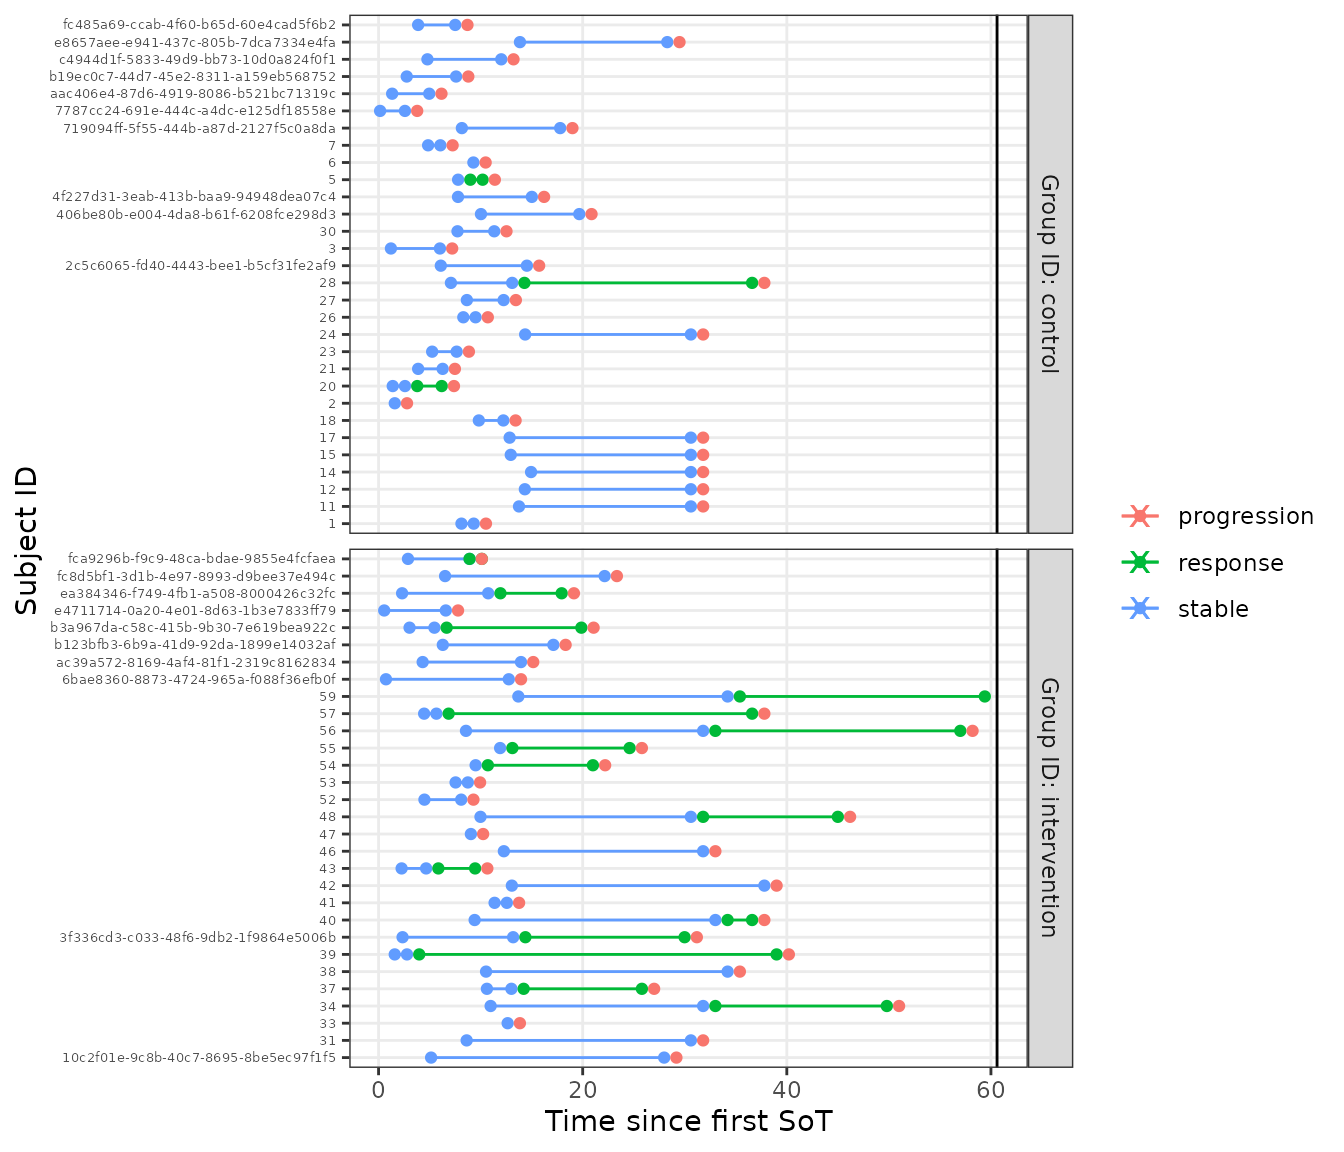
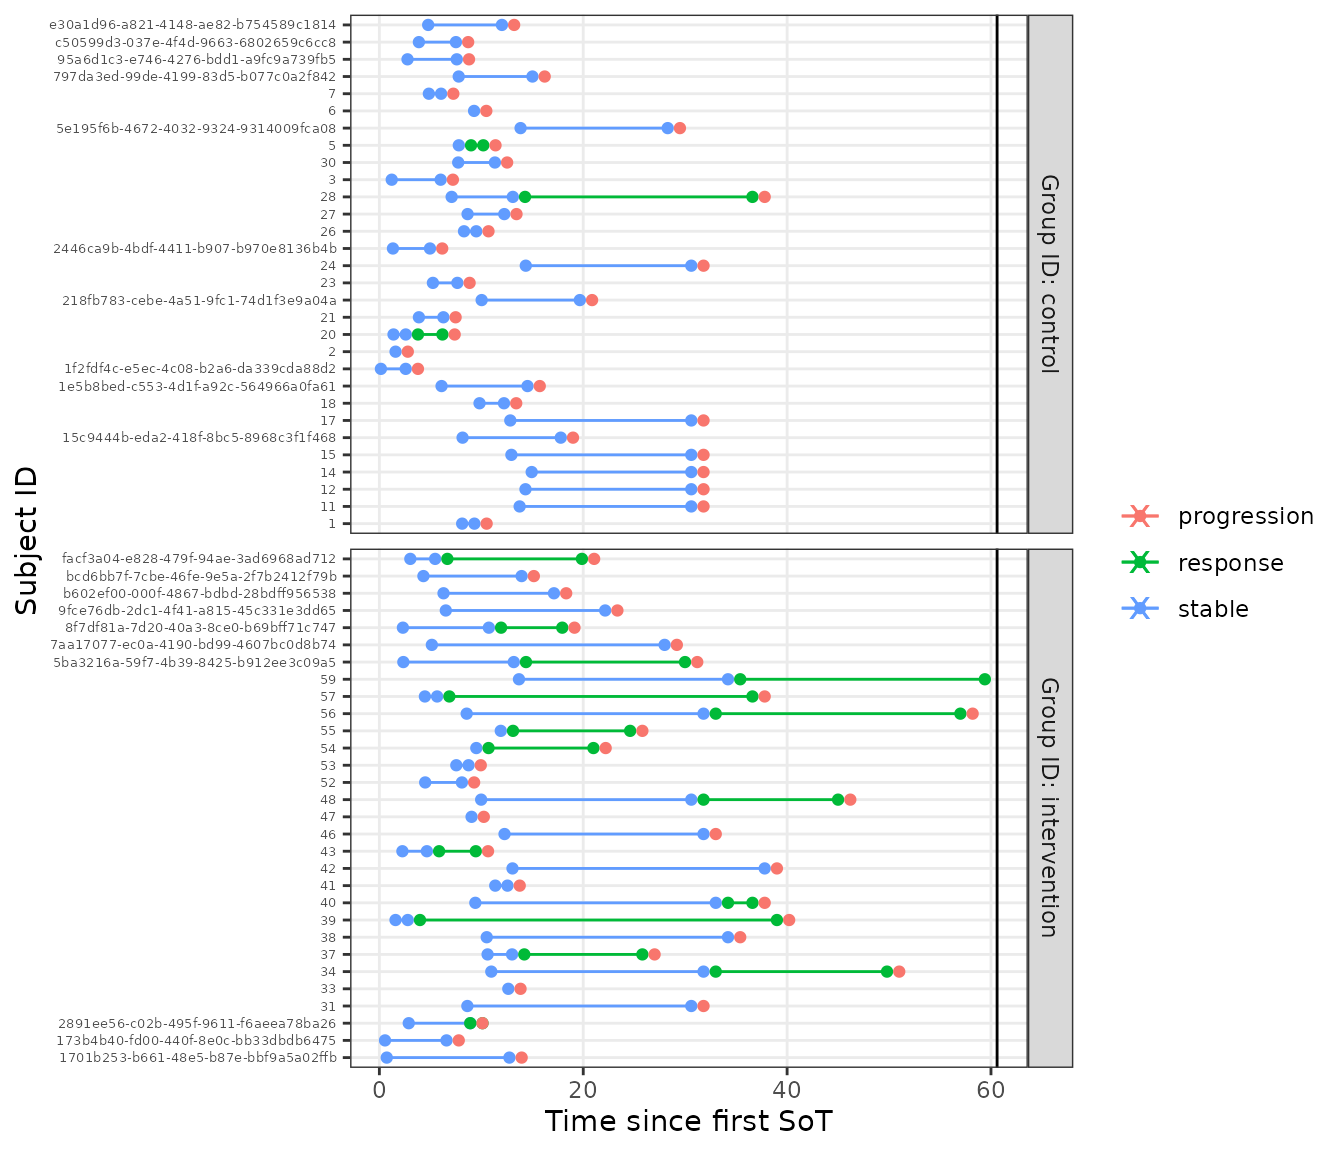
Deploying to gh-pages from @ Boehringer-Ingelheim/oncomsm@2f1c9ce510b5a48e034ad0cf6cf0987872f95f92 🚀

diff --git a/articles/multi-state-model-for-early-oncology.html b/articles/multi-state-model-for-early-oncology.html
@@ -90,10 +90,10 @@
 <p><strong>tl;dr:</strong> <em>Tumor response data is often treated as binary endpoint in early oncology trials (objective response or progression free survival at x months). This ignores the fact that these are time-to-event endpoints. Instead, the multi-state characteristics of the data can be exploited to reduce bias at interim analyses and drive event prediction for probability of success calculations.</em></p>
 <p>In early oncology trials, (objective tumor) response based on the RECIST criteria is often used as primary endpoint to establish the activity of a treatment. Response is often treated as binary variable although it is a delayed event endpoint. At the final analysis, this simplification is of little concern since all individuals tend to be followed up long enough to justify the assumption that non-responders are unlikely to still become responders. This approach is often plausible since individuals with tumors not responding to treatment ultimately progress. However, when continuously monitoring such a trial, the assumption of sufficient follow-up is no longer fulfilled and a simple binary analysis may be biased.</p>
 <p>In this vignette, the problem is addressed by extending the statistic binary response model to a three-state model for “stable”, “response”, and “progression or death”. The respective transition numbers are given in the graph below.</p>
-<div id="htmlwidget-0db86de59e80bbf93260" style="width:672px;height:200px;" class="DiagrammeR html-widget"></div>
-<script type="application/json" data-for="htmlwidget-0db86de59e80bbf93260">{"x":{"diagram":"\ngraph LR\n  stable -- 1 --> response\n  response -- 2 --> progression[progression or death]\n  stable -- 3 --> progression[progression or death]\n"},"evals":[],"jsHooks":[]}</script><p>Once someone becomes a responder, this model only allows a transition to the combined progression or death state. This means that progression and death are not modeled as competing events and simplifies analysis greatly over a model like the one below:</p>
-<div id="htmlwidget-eec579a1a7db87ba0464" style="width:672px;height:200px;" class="DiagrammeR html-widget"></div>
-<script type="application/json" data-for="htmlwidget-eec579a1a7db87ba0464">{"x":{"diagram":"\ngraph LR\n  stable -- 1 --> response\n  response -- 2a --> progression\n  response -- 2b --> death\n  progression -- 4 --> death\n  stable -- 3a --> progression\n  stable -- 3b --> death\n"},"evals":[],"jsHooks":[]}</script><p>Coming back to the simpler model, there is still a competing event issue when starting from ‘stable’. Often, the convenient hazard-based approach is used to model multistate situations like this. The hazard-based approach is intuitive, especially when considering non-parametric estimation, and co variate inclusion is well-understood. However, a hazard-based approach has several disadvantages:</p>
+<div id="htmlwidget-2fcaace95fc63f9990a1" style="width:672px;height:200px;" class="DiagrammeR html-widget"></div>
+<script type="application/json" data-for="htmlwidget-2fcaace95fc63f9990a1">{"x":{"diagram":"\ngraph LR\n  stable -- 1 --> response\n  response -- 2 --> progression[progression or death]\n  stable -- 3 --> progression[progression or death]\n"},"evals":[],"jsHooks":[]}</script><p>Once someone becomes a responder, this model only allows a transition to the combined progression or death state. This means that progression and death are not modeled as competing events and simplifies analysis greatly over a model like the one below:</p>
+<div id="htmlwidget-017d6888006765498103" style="width:672px;height:200px;" class="DiagrammeR html-widget"></div>
+<script type="application/json" data-for="htmlwidget-017d6888006765498103">{"x":{"diagram":"\ngraph LR\n  stable -- 1 --> response\n  response -- 2a --> progression\n  response -- 2b --> death\n  progression -- 4 --> death\n  stable -- 3a --> progression\n  stable -- 3b --> death\n"},"evals":[],"jsHooks":[]}</script><p>Coming back to the simpler model, there is still a competing event issue when starting from ‘stable’. Often, the convenient hazard-based approach is used to model multistate situations like this. The hazard-based approach is intuitive, especially when considering non-parametric estimation, and co variate inclusion is well-understood. However, a hazard-based approach has several disadvantages:</p>
 <ol style="list-style-type: decimal">
 <li><p>The hazard scale is difficult to interpret since it is a momentary risk, not a probability. This leads to problems with prior specification in a Bayesian setting. The Bayesian approach is, however, particularly useful in the early development process since it allows to augment data with prior opinion or evidence and thus improve accuracy.</p></li>
 <li><p>A hazard based, non-Markov multi-state model leads to intractable expressions for the implicitly given transition probabilities. Hence they need to be calculated by simulation which makes the model less convenient to work with if transition probabilities a or of primary interest. Since the (objective) response rate often plays an important role in the analysis of early oncology trials, this is a disadvantage.</p></li>
@@ -373,8 +373,8 @@ R &amp;\sim \operatorname{Bernoulli}(p) \\
 <span><span class="co">#&gt; </span></span>
 <span><span class="co">#&gt; SAMPLING FOR MODEL 'srp_model' NOW (CHAIN 1).</span></span>
 <span><span class="co">#&gt; Chain 1: </span></span>
-<span><span class="co">#&gt; Chain 1: Gradient evaluation took 0.00011 seconds</span></span>
-<span><span class="co">#&gt; Chain 1: 1000 transitions using 10 leapfrog steps per transition would take 1.1 seconds.</span></span>
+<span><span class="co">#&gt; Chain 1: Gradient evaluation took 8.7e-05 seconds</span></span>
+<span><span class="co">#&gt; Chain 1: 1000 transitions using 10 leapfrog steps per transition would take 0.87 seconds.</span></span>
 <span><span class="co">#&gt; Chain 1: Adjust your expectations accordingly!</span></span>
 <span><span class="co">#&gt; Chain 1: </span></span>
 <span><span class="co">#&gt; Chain 1: </span></span>
@@ -391,9 +391,9 @@ R &amp;\sim \operatorname{Bernoulli}(p) \\
 <span><span class="co">#&gt; Chain 1: Iteration: 4750 / 5250 [ 90%]  (Sampling)</span></span>
 <span><span class="co">#&gt; Chain 1: Iteration: 5250 / 5250 [100%]  (Sampling)</span></span>
 <span><span class="co">#&gt; Chain 1: </span></span>
-<span><span class="co">#&gt; Chain 1:  Elapsed Time: 1.04499 seconds (Warm-up)</span></span>
-<span><span class="co">#&gt; Chain 1:                11.4931 seconds (Sampling)</span></span>
-<span><span class="co">#&gt; Chain 1:                12.538 seconds (Total)</span></span>
+<span><span class="co">#&gt; Chain 1:  Elapsed Time: 0.927086 seconds (Warm-up)</span></span>
+<span><span class="co">#&gt; Chain 1:                10.0954 seconds (Sampling)</span></span>
+<span><span class="co">#&gt; Chain 1:                11.0225 seconds (Total)</span></span>
 <span><span class="co">#&gt; Chain 1:</span></span>
 <span></span>
 <span><span class="fu"><a href="https://rdrr.io/r/graphics/plot.default.html" class="external-link">plot</a></span><span class="op">(</span><span class="va">mdl</span>, dt <span class="op">=</span> <span class="fu"><a href="https://rdrr.io/r/base/c.html" class="external-link">c</a></span><span class="op">(</span><span class="fl">0</span>, <span class="fl">36</span><span class="op">)</span>, sample <span class="op">=</span> <span class="va">smpl_posterior</span><span class="op">)</span></span></code></pre></div>
@@ -461,26 +461,26 @@ R &amp;\sim \operatorname{Bernoulli}(p) \\
 <span><span class="co">#&gt; <span style="color: #949494;"># A tibble: 20 × 7</span></span></span>
 <span><span class="co">#&gt;    group_id     subject_id                        t_sot from  to     t_min t_max</span></span>
 <span><span class="co">#&gt;    <span style="color: #949494; font-style: italic;">&lt;chr&gt;</span>        <span style="color: #949494; font-style: italic;">&lt;chr&gt;</span>                             <span style="color: #949494; font-style: italic;">&lt;dbl&gt;</span> <span style="color: #949494; font-style: italic;">&lt;chr&gt;</span> <span style="color: #949494; font-style: italic;">&lt;chr&gt;</span>  <span style="color: #949494; font-style: italic;">&lt;dbl&gt;</span> <span style="color: #949494; font-style: italic;">&lt;dbl&gt;</span></span></span>
-<span><span class="co">#&gt; <span style="color: #BCBCBC;"> 1</span> control      7787cc24-691e-444c-a4dc-e125df1…  0.151 stab… <span style="color: #BB0000;">NA</span>     0.184   <span style="color: #BB0000;">Inf</span></span></span>
-<span><span class="co">#&gt; <span style="color: #BCBCBC;"> 2</span> control      aac406e4-87d6-4919-8086-b521bc7…  1.33  stab… <span style="color: #BB0000;">NA</span>     1.36    <span style="color: #BB0000;">Inf</span></span></span>
-<span><span class="co">#&gt; <span style="color: #BCBCBC;"> 3</span> control      b19ec0c7-44d7-45e2-8311-a159eb5…  2.76  stab… <span style="color: #BB0000;">NA</span>     2.79    <span style="color: #BB0000;">Inf</span></span></span>
-<span><span class="co">#&gt; <span style="color: #BCBCBC;"> 4</span> control      fc485a69-ccab-4f60-b65d-60e4cad…  3.88  stab… <span style="color: #BB0000;">NA</span>     3.91    <span style="color: #BB0000;">Inf</span></span></span>
-<span><span class="co">#&gt; <span style="color: #BCBCBC;"> 5</span> control      c4944d1f-5833-49d9-bb73-10d0a82…  4.79  stab… <span style="color: #BB0000;">NA</span>     4.82    <span style="color: #BB0000;">Inf</span></span></span>
-<span><span class="co">#&gt; <span style="color: #BCBCBC;"> 6</span> control      2c5c6065-fd40-4443-bee1-b5cf31f…  6.10  stab… <span style="color: #BB0000;">NA</span>     6.13    <span style="color: #BB0000;">Inf</span></span></span>
-<span><span class="co">#&gt; <span style="color: #BCBCBC;"> 7</span> control      4f227d31-3eab-413b-baa9-94948de…  7.78  stab… <span style="color: #BB0000;">NA</span>     7.82    <span style="color: #BB0000;">Inf</span></span></span>
-<span><span class="co">#&gt; <span style="color: #BCBCBC;"> 8</span> control      719094ff-5f55-444b-a87d-2127f5c…  8.16  stab… <span style="color: #BB0000;">NA</span>     8.20    <span style="color: #BB0000;">Inf</span></span></span>
-<span><span class="co">#&gt; <span style="color: #BCBCBC;"> 9</span> control      406be80b-e004-4da8-b61f-6208fce… 10.0   stab… <span style="color: #BB0000;">NA</span>    10.1     <span style="color: #BB0000;">Inf</span></span></span>
-<span><span class="co">#&gt; <span style="color: #BCBCBC;">10</span> control      e8657aee-e941-437c-805b-7dca733… 13.9   stab… <span style="color: #BB0000;">NA</span>    13.9     <span style="color: #BB0000;">Inf</span></span></span>
-<span><span class="co">#&gt; <span style="color: #BCBCBC;">11</span> intervention e4711714-0a20-4e01-8d63-1b3e783…  0.554 stab… <span style="color: #BB0000;">NA</span>     0.587   <span style="color: #BB0000;">Inf</span></span></span>
-<span><span class="co">#&gt; <span style="color: #BCBCBC;">12</span> intervention 6bae8360-8873-4724-965a-f088f36…  0.724 stab… <span style="color: #BB0000;">NA</span>     0.758   <span style="color: #BB0000;">Inf</span></span></span>
-<span><span class="co">#&gt; <span style="color: #BCBCBC;">13</span> intervention ea384346-f749-4fb1-a508-8000426…  2.31  stab… <span style="color: #BB0000;">NA</span>     2.34    <span style="color: #BB0000;">Inf</span></span></span>
-<span><span class="co">#&gt; <span style="color: #BCBCBC;">14</span> intervention 3f336cd3-c033-48f6-9db2-1f9864e…  2.35  stab… <span style="color: #BB0000;">NA</span>     2.38    <span style="color: #BB0000;">Inf</span></span></span>
-<span><span class="co">#&gt; <span style="color: #BCBCBC;">15</span> intervention fca9296b-f9c9-48ca-bdae-9855e4f…  2.88  stab… <span style="color: #BB0000;">NA</span>     2.92    <span style="color: #BB0000;">Inf</span></span></span>
-<span><span class="co">#&gt; <span style="color: #BCBCBC;">16</span> intervention b3a967da-c58c-415b-9b30-7e619be…  3.04  stab… <span style="color: #BB0000;">NA</span>     3.07    <span style="color: #BB0000;">Inf</span></span></span>
-<span><span class="co">#&gt; <span style="color: #BCBCBC;">17</span> intervention ac39a572-8169-4af4-81f1-2319c81…  4.32  stab… <span style="color: #BB0000;">NA</span>     4.35    <span style="color: #BB0000;">Inf</span></span></span>
-<span><span class="co">#&gt; <span style="color: #BCBCBC;">18</span> intervention 10c2f01e-9c8b-40c7-8695-8be5ec9…  5.15  stab… <span style="color: #BB0000;">NA</span>     5.18    <span style="color: #BB0000;">Inf</span></span></span>
-<span><span class="co">#&gt; <span style="color: #BCBCBC;">19</span> intervention b123bfb3-6b9a-41d9-92da-1899e14…  6.29  stab… <span style="color: #BB0000;">NA</span>     6.33    <span style="color: #BB0000;">Inf</span></span></span>
-<span><span class="co">#&gt; <span style="color: #BCBCBC;">20</span> intervention fc8d5bf1-3d1b-4e97-8993-d9bee37…  6.52  stab… <span style="color: #BB0000;">NA</span>     6.55    <span style="color: #BB0000;">Inf</span></span></span></code></pre></div>
+<span><span class="co">#&gt; <span style="color: #BCBCBC;"> 1</span> control      1f2fdf4c-e5ec-4c08-b2a6-da339cd…  0.151 stab… <span style="color: #BB0000;">NA</span>     0.184   <span style="color: #BB0000;">Inf</span></span></span>
+<span><span class="co">#&gt; <span style="color: #BCBCBC;"> 2</span> control      2446ca9b-4bdf-4411-b907-b970e81…  1.33  stab… <span style="color: #BB0000;">NA</span>     1.36    <span style="color: #BB0000;">Inf</span></span></span>
+<span><span class="co">#&gt; <span style="color: #BCBCBC;"> 3</span> control      95a6d1c3-e746-4276-bdd1-a9fc9a7…  2.76  stab… <span style="color: #BB0000;">NA</span>     2.79    <span style="color: #BB0000;">Inf</span></span></span>
+<span><span class="co">#&gt; <span style="color: #BCBCBC;"> 4</span> control      c50599d3-037e-4f4d-9663-6802659…  3.88  stab… <span style="color: #BB0000;">NA</span>     3.91    <span style="color: #BB0000;">Inf</span></span></span>
+<span><span class="co">#&gt; <span style="color: #BCBCBC;"> 5</span> control      e30a1d96-a821-4148-ae82-b754589…  4.79  stab… <span style="color: #BB0000;">NA</span>     4.82    <span style="color: #BB0000;">Inf</span></span></span>
+<span><span class="co">#&gt; <span style="color: #BCBCBC;"> 6</span> control      1e5b8bed-c553-4d1f-a92c-564966a…  6.10  stab… <span style="color: #BB0000;">NA</span>     6.13    <span style="color: #BB0000;">Inf</span></span></span>
+<span><span class="co">#&gt; <span style="color: #BCBCBC;"> 7</span> control      797da3ed-99de-4199-83d5-b077c0a…  7.78  stab… <span style="color: #BB0000;">NA</span>     7.82    <span style="color: #BB0000;">Inf</span></span></span>
+<span><span class="co">#&gt; <span style="color: #BCBCBC;"> 8</span> control      15c9444b-eda2-418f-8bc5-8968c3f…  8.16  stab… <span style="color: #BB0000;">NA</span>     8.20    <span style="color: #BB0000;">Inf</span></span></span>
+<span><span class="co">#&gt; <span style="color: #BCBCBC;"> 9</span> control      218fb783-cebe-4a51-9fc1-74d1f3e… 10.0   stab… <span style="color: #BB0000;">NA</span>    10.1     <span style="color: #BB0000;">Inf</span></span></span>
+<span><span class="co">#&gt; <span style="color: #BCBCBC;">10</span> control      5e195f6b-4672-4032-9324-9314009… 13.9   stab… <span style="color: #BB0000;">NA</span>    13.9     <span style="color: #BB0000;">Inf</span></span></span>
+<span><span class="co">#&gt; <span style="color: #BCBCBC;">11</span> intervention 173b4b40-fd00-440f-8e0c-bb33dbd…  0.554 stab… <span style="color: #BB0000;">NA</span>     0.587   <span style="color: #BB0000;">Inf</span></span></span>
+<span><span class="co">#&gt; <span style="color: #BCBCBC;">12</span> intervention 1701b253-b661-48e5-b87e-bbf9a5a…  0.724 stab… <span style="color: #BB0000;">NA</span>     0.758   <span style="color: #BB0000;">Inf</span></span></span>
+<span><span class="co">#&gt; <span style="color: #BCBCBC;">13</span> intervention 8f7df81a-7d20-40a3-8ce0-b69bff7…  2.31  stab… <span style="color: #BB0000;">NA</span>     2.34    <span style="color: #BB0000;">Inf</span></span></span>
+<span><span class="co">#&gt; <span style="color: #BCBCBC;">14</span> intervention 5ba3216a-59f7-4b39-8425-b912ee3…  2.35  stab… <span style="color: #BB0000;">NA</span>     2.38    <span style="color: #BB0000;">Inf</span></span></span>
+<span><span class="co">#&gt; <span style="color: #BCBCBC;">15</span> intervention 2891ee56-c02b-495f-9611-f6aeea7…  2.88  stab… <span style="color: #BB0000;">NA</span>     2.92    <span style="color: #BB0000;">Inf</span></span></span>
+<span><span class="co">#&gt; <span style="color: #BCBCBC;">16</span> intervention facf3a04-e828-479f-94ae-3ad6968…  3.04  stab… <span style="color: #BB0000;">NA</span>     3.07    <span style="color: #BB0000;">Inf</span></span></span>
+<span><span class="co">#&gt; <span style="color: #BCBCBC;">17</span> intervention bcd6bb7f-7cbe-46fe-9e5a-2f7b241…  4.32  stab… <span style="color: #BB0000;">NA</span>     4.35    <span style="color: #BB0000;">Inf</span></span></span>
+<span><span class="co">#&gt; <span style="color: #BCBCBC;">18</span> intervention 7aa17077-ec0a-4190-bd99-4607bc0…  5.15  stab… <span style="color: #BB0000;">NA</span>     5.18    <span style="color: #BB0000;">Inf</span></span></span>
+<span><span class="co">#&gt; <span style="color: #BCBCBC;">19</span> intervention b602ef00-000f-4867-bdbd-28bdff9…  6.29  stab… <span style="color: #BB0000;">NA</span>     6.33    <span style="color: #BB0000;">Inf</span></span></span>
+<span><span class="co">#&gt; <span style="color: #BCBCBC;">20</span> intervention 9fce76db-2dc1-4f41-a815-45c331e…  6.52  stab… <span style="color: #BB0000;">NA</span>     6.55    <span style="color: #BB0000;">Inf</span></span></span></code></pre></div>
 <p>The hypothetical future first-visits can now be combined with the interim data and the trajectories can be sampled forward using the already fitted posterior distribution.</p>
 <div class="sourceCode" id="cb16"><pre class="downlit sourceCode r">
 <code class="sourceCode R"><span><span class="va">tbl_mstate_interim_forward</span> <span class="op">&lt;-</span> <span class="fu"><a href="https://dplyr.tidyverse.org/reference/bind.html" class="external-link">bind_rows</a></span><span class="op">(</span><span class="va">tbl_mstate_interim</span>, <span class="va">tbl_to_be_recruited</span><span class="op">)</span></span>

diff --git a/articles/application-to-probability-of-success.html b/articles/application-to-probability-of-success.html
@@ -396,16 +396,16 @@
 <span><span class="co">#&gt; <span style="color: #949494;"># A tibble: 7,807 × 8</span></span></span>
 <span><span class="co">#&gt;    subject_id                       group…¹ from  to     t_min t_max t_sot  iter</span></span>
 <span><span class="co">#&gt;    <span style="color: #949494; font-style: italic;">&lt;chr&gt;</span>                            <span style="color: #949494; font-style: italic;">&lt;chr&gt;</span>   <span style="color: #949494; font-style: italic;">&lt;chr&gt;</span> <span style="color: #949494; font-style: italic;">&lt;chr&gt;</span>  <span style="color: #949494; font-style: italic;">&lt;dbl&gt;</span> <span style="color: #949494; font-style: italic;">&lt;dbl&gt;</span> <span style="color: #949494; font-style: italic;">&lt;dbl&gt;</span> <span style="color: #949494; font-style: italic;">&lt;int&gt;</span></span></span>
-<span><span class="co">#&gt; <span style="color: #BCBCBC;"> 1</span> 73fd80d6-e93c-4f5a-8523-69336bd… B       stab… prog… 14.7   15.9  0.231     1</span></span>
-<span><span class="co">#&gt; <span style="color: #BCBCBC;"> 2</span> 73fd80d6-e93c-4f5a-8523-69336bd… B       stab… prog…  0.264  1.46 0.231     2</span></span>
-<span><span class="co">#&gt; <span style="color: #BCBCBC;"> 3</span> 73fd80d6-e93c-4f5a-8523-69336bd… B       stab… prog… 11.1   12.3  0.231     3</span></span>
-<span><span class="co">#&gt; <span style="color: #BCBCBC;"> 4</span> 73fd80d6-e93c-4f5a-8523-69336bd… B       stab… resp…  1.46   2.66 0.231     4</span></span>
-<span><span class="co">#&gt; <span style="color: #BCBCBC;"> 5</span> 73fd80d6-e93c-4f5a-8523-69336bd… B       resp… prog… 11.1   12.3  0.231     4</span></span>
-<span><span class="co">#&gt; <span style="color: #BCBCBC;"> 6</span> 73fd80d6-e93c-4f5a-8523-69336bd… B       stab… resp…  0.264  1.46 0.231     5</span></span>
-<span><span class="co">#&gt; <span style="color: #BCBCBC;"> 7</span> 73fd80d6-e93c-4f5a-8523-69336bd… B       resp… prog…  7.46   8.66 0.231     5</span></span>
-<span><span class="co">#&gt; <span style="color: #BCBCBC;"> 8</span> 73fd80d6-e93c-4f5a-8523-69336bd… B       stab… prog…  3.86   5.06 0.231     6</span></span>
-<span><span class="co">#&gt; <span style="color: #BCBCBC;"> 9</span> 73fd80d6-e93c-4f5a-8523-69336bd… B       stab… prog…  5.06   6.26 0.231     7</span></span>
-<span><span class="co">#&gt; <span style="color: #BCBCBC;">10</span> 73fd80d6-e93c-4f5a-8523-69336bd… B       stab… prog… 15.9   17.1  0.231     8</span></span>
+<span><span class="co">#&gt; <span style="color: #BCBCBC;"> 1</span> 84f34eee-1cf3-4a6a-baed-b74f523… B       stab… prog… 14.7   15.9  0.231     1</span></span>
+<span><span class="co">#&gt; <span style="color: #BCBCBC;"> 2</span> 84f34eee-1cf3-4a6a-baed-b74f523… B       stab… prog…  0.264  1.46 0.231     2</span></span>
+<span><span class="co">#&gt; <span style="color: #BCBCBC;"> 3</span> 84f34eee-1cf3-4a6a-baed-b74f523… B       stab… prog… 11.1   12.3  0.231     3</span></span>
+<span><span class="co">#&gt; <span style="color: #BCBCBC;"> 4</span> 84f34eee-1cf3-4a6a-baed-b74f523… B       stab… resp…  1.46   2.66 0.231     4</span></span>
+<span><span class="co">#&gt; <span style="color: #BCBCBC;"> 5</span> 84f34eee-1cf3-4a6a-baed-b74f523… B       resp… prog… 11.1   12.3  0.231     4</span></span>
+<span><span class="co">#&gt; <span style="color: #BCBCBC;"> 6</span> 84f34eee-1cf3-4a6a-baed-b74f523… B       stab… resp…  0.264  1.46 0.231     5</span></span>
+<span><span class="co">#&gt; <span style="color: #BCBCBC;"> 7</span> 84f34eee-1cf3-4a6a-baed-b74f523… B       resp… prog…  7.46   8.66 0.231     5</span></span>
+<span><span class="co">#&gt; <span style="color: #BCBCBC;"> 8</span> 84f34eee-1cf3-4a6a-baed-b74f523… B       stab… prog…  3.86   5.06 0.231     6</span></span>
+<span><span class="co">#&gt; <span style="color: #BCBCBC;"> 9</span> 84f34eee-1cf3-4a6a-baed-b74f523… B       stab… prog…  5.06   6.26 0.231     7</span></span>
+<span><span class="co">#&gt; <span style="color: #BCBCBC;">10</span> 84f34eee-1cf3-4a6a-baed-b74f523… B       stab… prog… 15.9   17.1  0.231     8</span></span>
 <span><span class="co">#&gt; <span style="color: #949494;"># … with 7,797 more rows, and abbreviated variable name ¹group_id</span></span></span>
 <span><span class="co">#&gt; <span style="color: #949494;"># ℹ Use `print(n = ...)` to see more rows</span></span></span></code></pre></div>
 </div>
